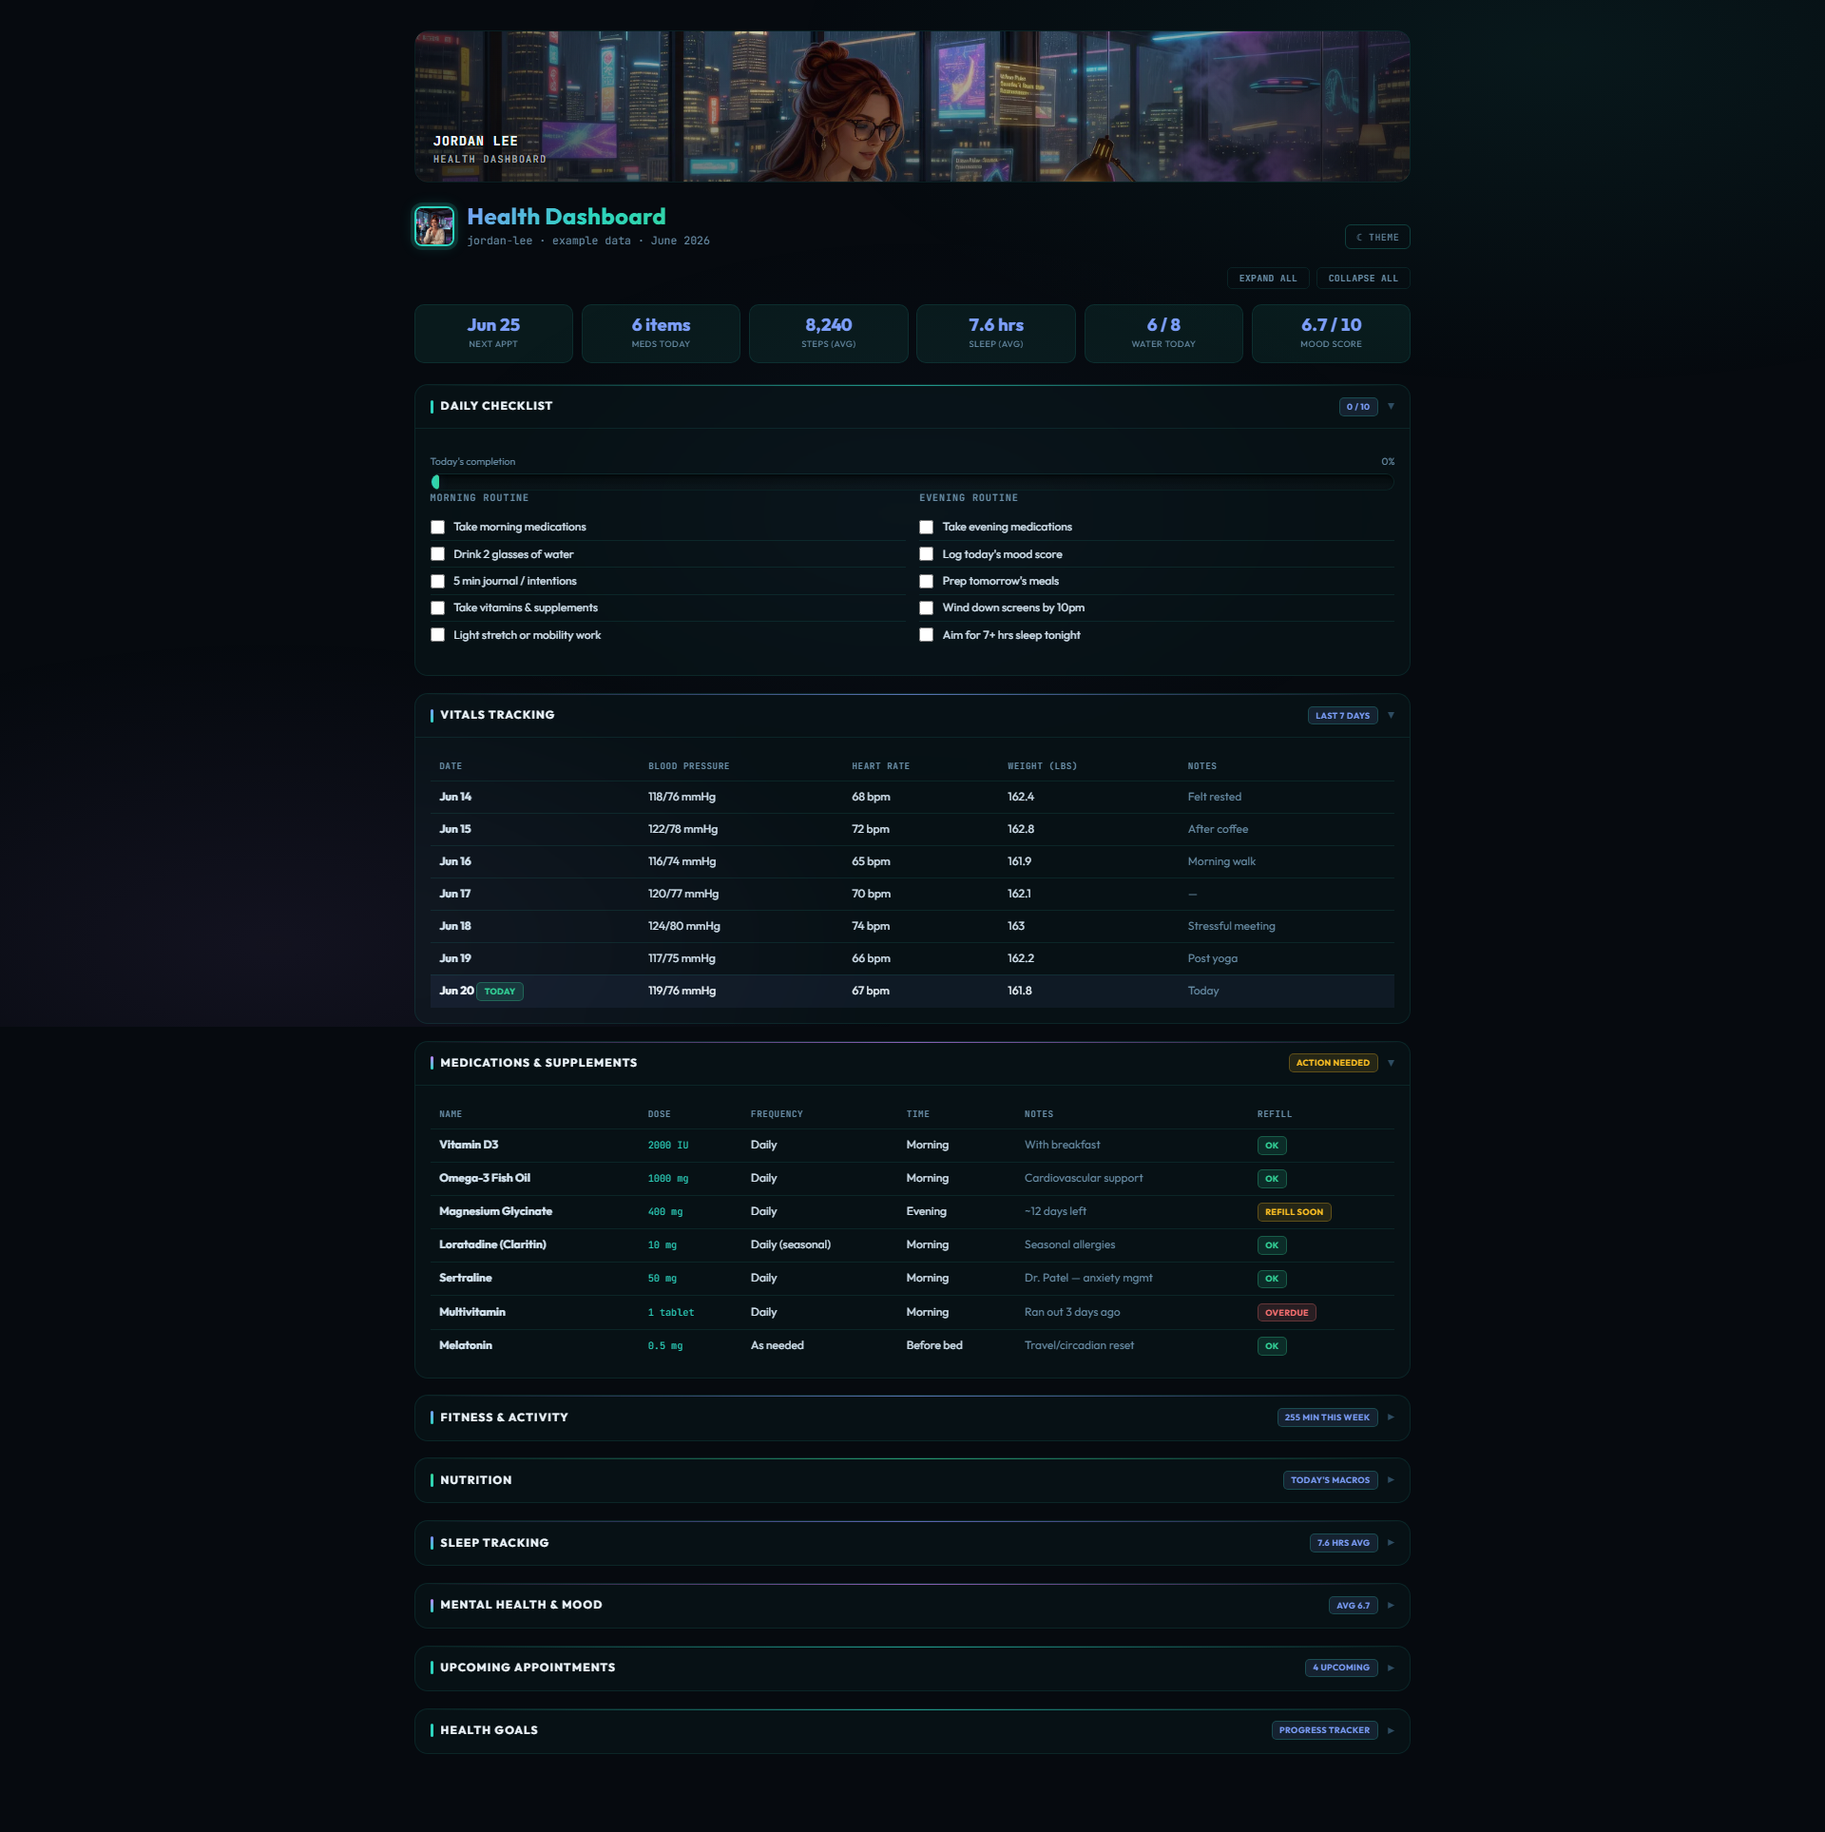
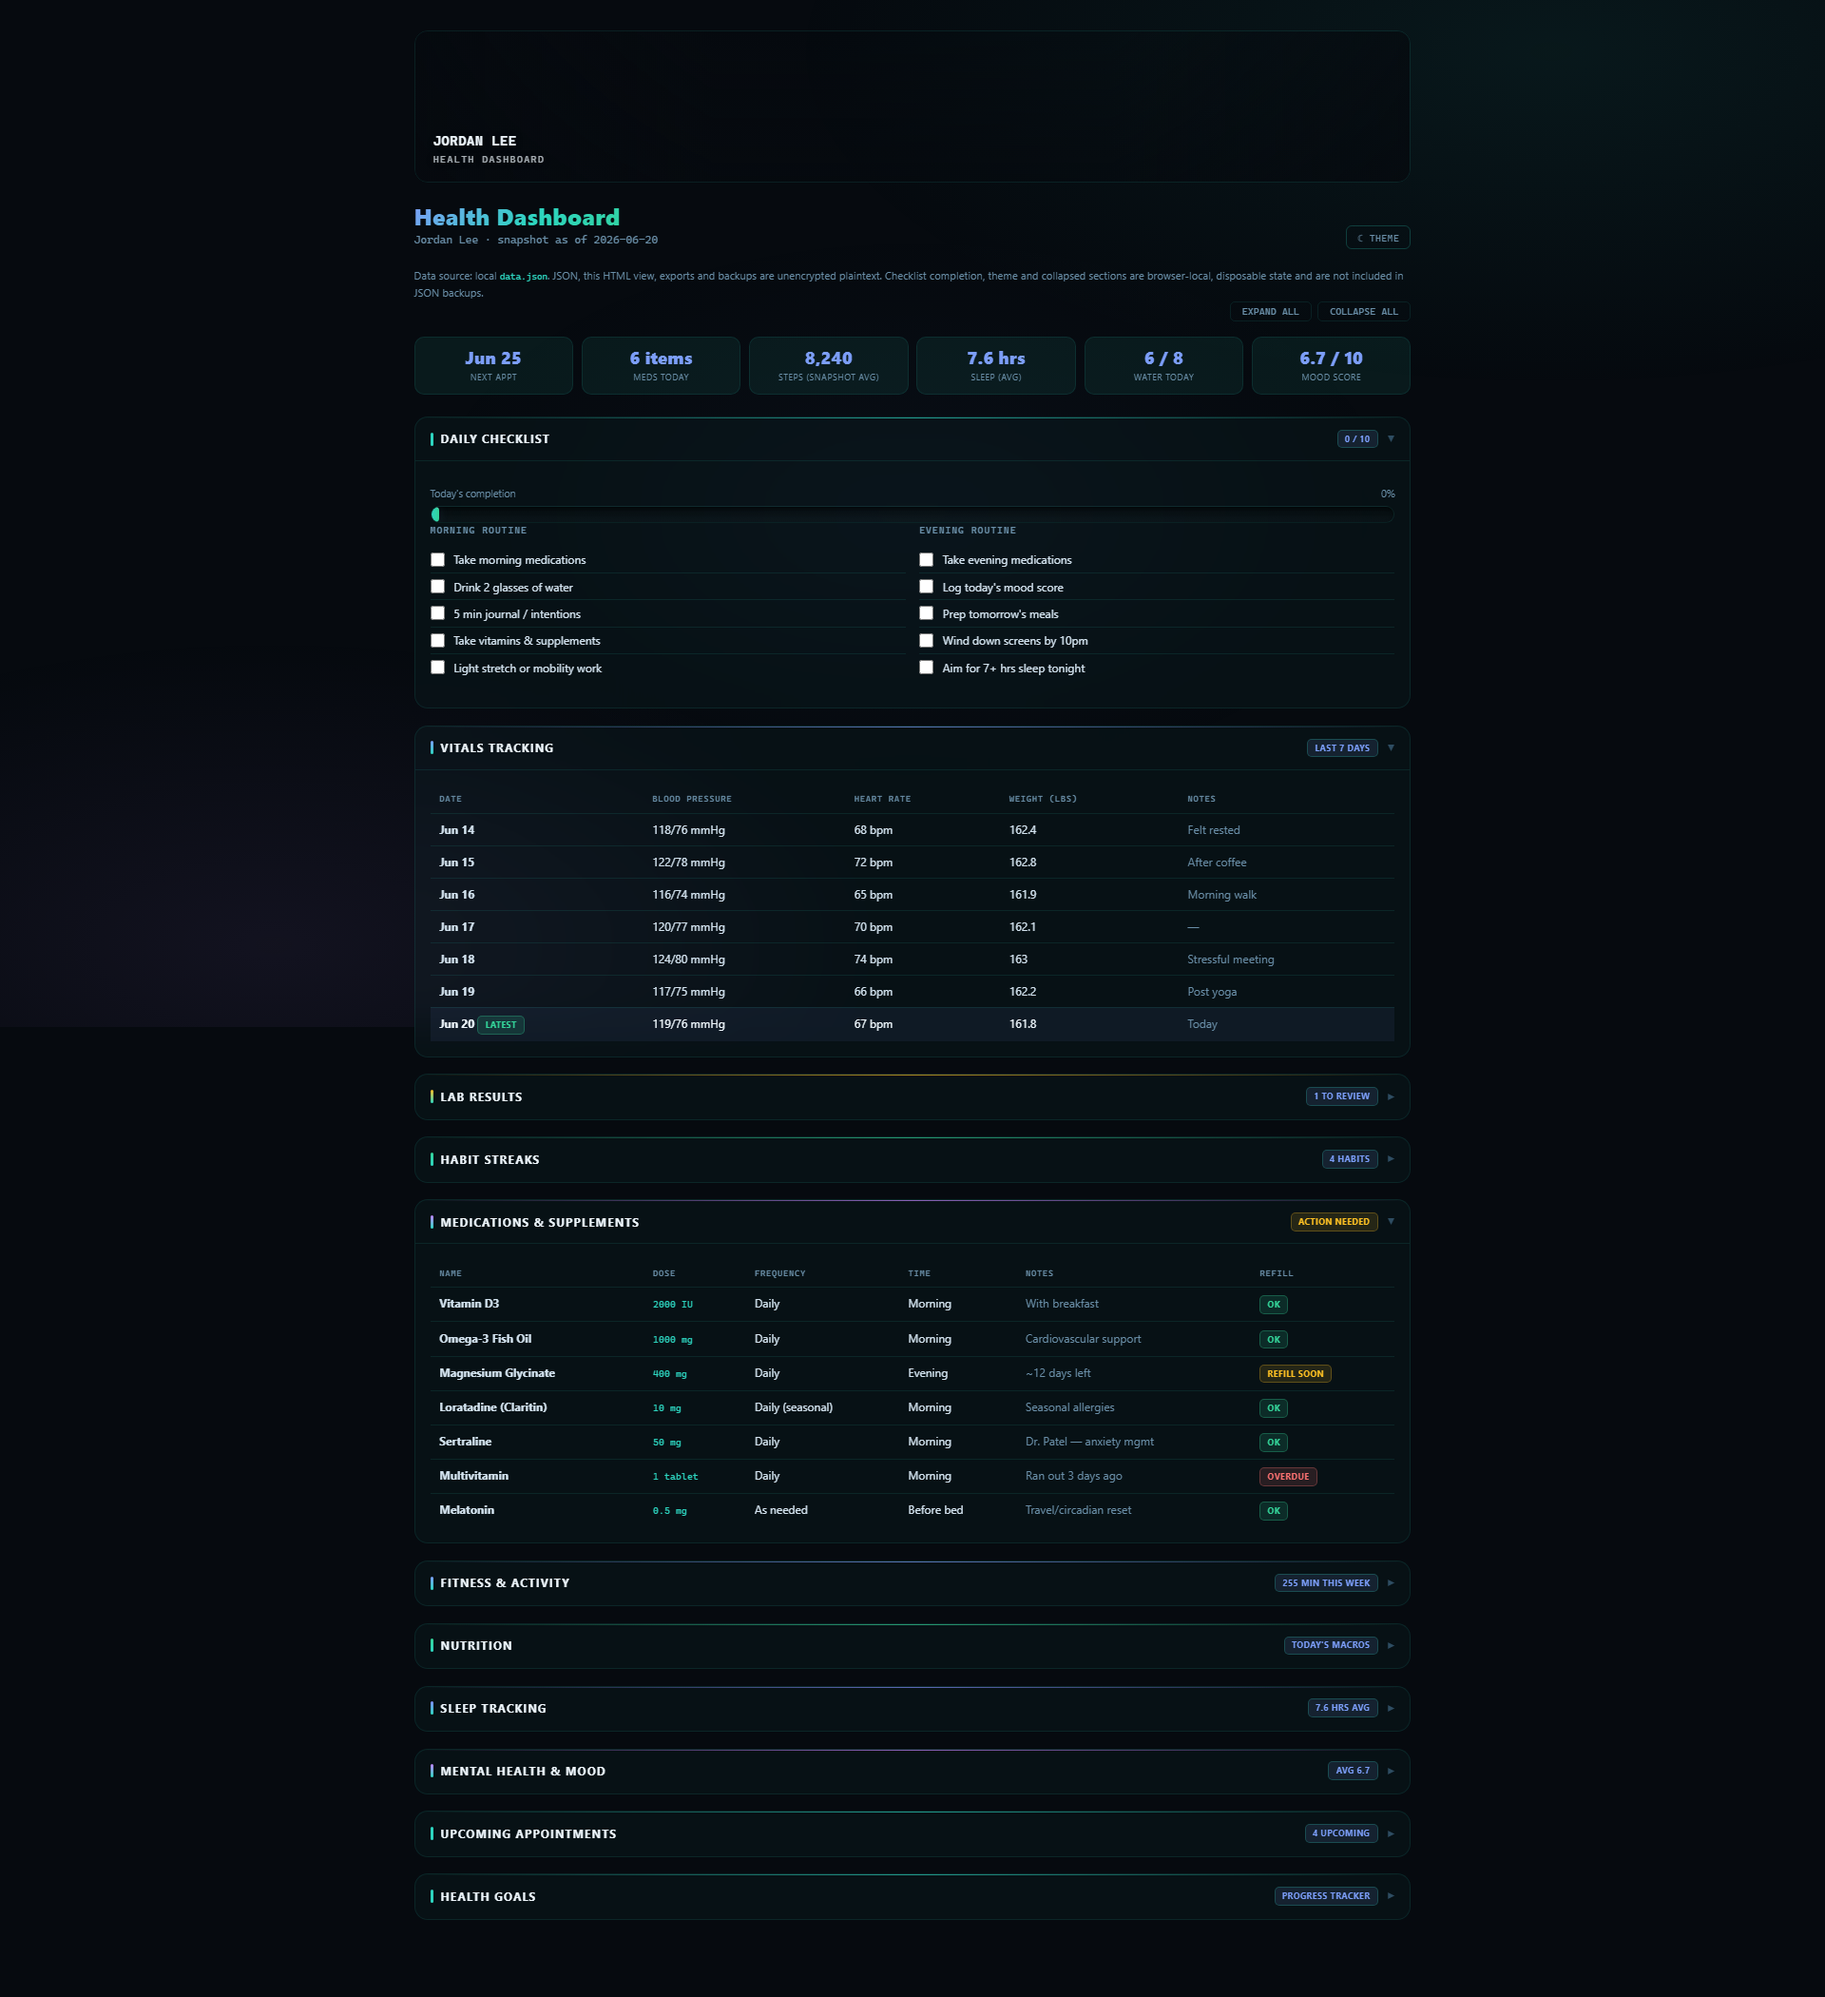
feat(capture): pin screenshots to each profile's as-of date
- profiles: ?today=asof pins localToday() to profile.asOf / last_updated
  (an injected window.dashboardToday still wins; any other value is ignored)
- capture.ps1 opens every page with ?today=asof by default (-RealDate opts out)
  and renames hero output to the <slug>-<width>.png names the README links
- all four README heroes recaptured; health and pets heroes predated the
  2026-09-26 removal of remote fonts and agency art, so they now match the pages
- test: asof pinning per profile, non-asof values ignored, injection precedence

diff --git a/profiles/finances/finances.html b/profiles/finances/finances.html
@@ -1386,6 +1386,12 @@ function localToday(){
     if(year < 1 || month < 1 || month > 12 || day < 1 || day > days[month-1]) throw new Error('dashboardToday must be a real calendar date');
     return value;
   }
+  // ?today=asof pins "today" to this dashboard's own as-of date, so captures and shared links
+  // show the example as it was meant to be read instead of months of overdue items.
+  if (typeof location !== 'undefined' && new URLSearchParams(location.search).get('today') === 'asof') {
+    const asOf = D.profile && (D.profile.asOf || D.profile.last_updated);
+    if (/^\d{4}-\d{2}-\d{2}$/.test(asOf || '')) return asOf;
+  }
   const date = new Date();
   return date.getFullYear() + '-' + String(date.getMonth()+1).padStart(2,'0') + '-' + String(date.getDate()).padStart(2,'0');
 }

diff --git a/profiles/health/health.html b/profiles/health/health.html
@@ -1189,6 +1189,11 @@ function readLocalJSON(key,fallback={}){
     if(year < 1 || month < 1 || month > 12 || day < 1 || day > days[month-1]) throw new Error('dashboardToday must be a real calendar date');
     return value;
   }
+    // ?today=asof pins "today" to this dashboard's own as-of date (profile.last_updated) for captures.
+    if (typeof location !== 'undefined' && new URLSearchParams(location.search).get('today') === 'asof') {
+      const asOf = D.profile && (D.profile.asOf || D.profile.last_updated);
+      if (/^\d{4}-\d{2}-\d{2}$/.test(asOf || '')) return asOf;
+    }
     const date = new Date();
     return date.getFullYear() + '-' + String(date.getMonth()+1).padStart(2,'0') + '-' + String(date.getDate()).padStart(2,'0');
   }

diff --git a/profiles/pets/pets.html b/profiles/pets/pets.html
@@ -749,6 +749,11 @@ function readLocalJSON(key,fallback={}){
     if(year < 1 || month < 1 || month > 12 || day < 1 || day > days[month-1]) throw new Error('dashboardToday must be a real calendar date');
     return value;
   }
+    // ?today=asof pins "today" to this dashboard's own as-of date (profile.last_updated) for captures.
+    if (typeof location !== 'undefined' && new URLSearchParams(location.search).get('today') === 'asof') {
+      const asOf = D.profile && (D.profile.asOf || D.profile.last_updated);
+      if (/^\d{4}-\d{2}-\d{2}$/.test(asOf || '')) return asOf;
+    }
     const date = new Date();
     return date.getFullYear() + '-' + String(date.getMonth()+1).padStart(2,'0') + '-' + String(date.getDate()).padStart(2,'0');
   }

diff --git a/docs/architecture.md b/docs/architecture.md
@@ -56,6 +56,12 @@ The optional `scripts/capture.ps1` wrapper discovers a sibling `vid-scroll` chec
 `VID_SCROLL_DIR`, resolves the current clone path into a temporary ignored config, and writes local
 evidence by default. It is contributor tooling, not a runtime dependency.
 
+Captures open every page with `?today=asof`, which pins the page's clock to that profile's own as-of
+date (`profile.asOf` or `profile.last_updated`), so screenshots of the fictional examples never age into
+months of overdue items. `-RealDate` renders with the machine's date instead. Hero captures written to
+`docs/screenshots/hero/` are renamed to the `<slug>-<width>.png` names the README links. The same query
+works in a browser: open `profiles/finances/finances.html?today=asof`.
+
 ## Verification
 
 `npm test` covers the core, schema contracts, hostile data, finance derivations, offline render
